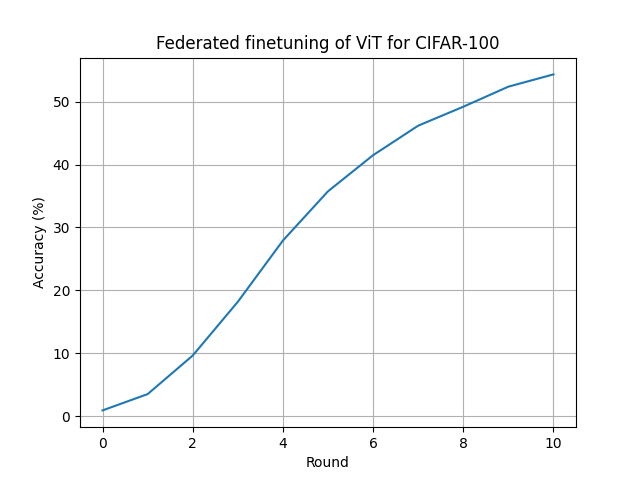
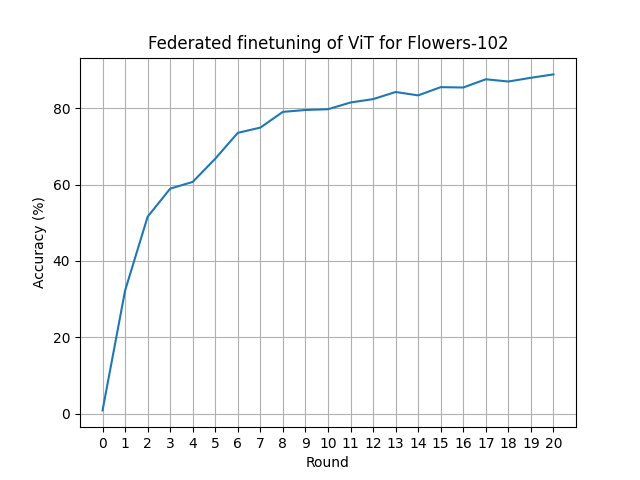
w/ oxford flowers-102

diff --git a/examples/vit-finetune/model.py b/examples/vit-finetune/model.py
@@ -11,11 +11,11 @@ def get_model():
     model = vit_b_16(weights=ViT_B_16_Weights.IMAGENET1K_V1)
 
     # We're going to federated the finetuning of this model
-    # using the CIFAR-100 dataset. One easy way to achieve this
-    # is by re-initializing the output block of the ViT so it
-    # outputs 100 clases instead of the default 1k
+    # using the Oxford Flowers-102 dataset. One easy way to achieve
+    # this is by re-initializing the output block of the ViT so it
+    # outputs 102 clases instead of the default 1k
     in_features = model.heads[-1].in_features
-    model.heads[-1] = torch.nn.Linear(in_features, 100)
+    model.heads[-1] = torch.nn.Linear(in_features, 102)
 
     # Disable gradients for everything
     model.requires_grad_(False)
@@ -45,7 +45,7 @@ def train(net, trainloader, optimizer, epochs, device):
     # A very standard training loop for image classification
     for _ in range(epochs):
         for batch in trainloader:
-            images, labels = batch["img"].to(device), batch["fine_label"].to(device)
+            images, labels = batch["image"].to(device), batch["label"].to(device)
             optimizer.zero_grad()
             loss = criterion(net(images), labels)
             avg_loss += loss.item() / labels.shape[0]
@@ -62,7 +62,7 @@ def test(net, testloader, device: str):
     net.eval()
     with torch.no_grad():
         for data in testloader:
-            images, labels = data["img"].to(device), data["fine_label"].to(device)
+            images, labels = data["image"].to(device), data["label"].to(device)
             outputs = net(images)
             loss += criterion(outputs, labels).item()
             _, predicted = torch.max(outputs.data, 1)

diff --git a/examples/vit-finetune/dataset.py b/examples/vit-finetune/dataset.py
@@ -11,18 +11,18 @@ from flwr_datasets import FederatedDataset
 
 
 def get_dataset_with_partitions(num_partitions: int):
-    """Get CIFAR-100 datasets and partition it.
+    """Get Oxford Flowers datasets and partition it.
 
     Return partitioned dataset as well as the whole test set.
     """
 
-    # Get CIFAR-100 and divide it into 20 IID partitions
-    c100_fds = FederatedDataset(
-        dataset="cifar100", partitioners={"train": num_partitions}
+    # Get Oxford Flowers-102 and divide it into 20 IID partitions
+    ox_flowers_fds = FederatedDataset(
+        dataset="nelorth/oxford-flowers", partitioners={"train": num_partitions}
     )
 
-    centralized_testset = c100_fds.load_full("test")
-    return c100_fds, centralized_testset
+    centralized_testset = ox_flowers_fds.load_full("test")
+    return ox_flowers_fds, centralized_testset
 
 
 def apply_eval_transforms(batch):
@@ -35,7 +35,7 @@ def apply_eval_transforms(batch):
             Normalize(mean=[0.485, 0.456, 0.406], std=[0.229, 0.224, 0.225]),
         ]
     )
-    batch["img"] = [transforms(img) for img in batch["img"]]
+    batch["image"] = [transforms(img) for img in batch["image"]]
     return batch
 
 
@@ -48,5 +48,5 @@ def apply_transforms(batch):
             Normalize(mean=[0.485, 0.456, 0.406], std=[0.229, 0.224, 0.225]),
         ]
     )
-    batch["img"] = [transforms(img) for img in batch["img"]]
+    batch["image"] = [transforms(img) for img in batch["image"]]
     return batch

diff --git a/examples/vit-finetune/main.py b/examples/vit-finetune/main.py
@@ -13,7 +13,7 @@ parser = argparse.ArgumentParser(
 parser.add_argument(
     "--num-rounds",
     type=int,
-    default=10,
+    default=20,
     help="Number of rounds.",
 )
 
@@ -24,10 +24,10 @@ def main():
 
     # To control the degree of parallelism
     # With default settings in this example,
-    # each client should take just ~2GB of VRAM.
+    # each client should take just ~1GB of VRAM.
     client_resources = {
         "num_cpus": 4,
-        "num_gpus": 0.25,
+        "num_gpus": 0.2,
     }
 
     # Launch simulation
@@ -43,13 +43,14 @@ def main():
 
     # Basic plotting
     global_accuracy_centralised = history.metrics_centralized["accuracy"]
-    round = [data[0] for data in global_accuracy_centralised]
+    round = [int(data[0]) for data in global_accuracy_centralised]
     acc = [100.0 * data[1] for data in global_accuracy_centralised]
     plt.plot(round, acc)
+    plt.xticks(round)
     plt.grid()
     plt.ylabel("Accuracy (%)")
     plt.xlabel("Round")
-    plt.title("Federated finetuning of ViT for CIFAR-100")
+    plt.title("Federated finetuning of ViT for Flowers-102")
     plt.savefig("central_evaluation.png")
 
 

diff --git a/examples/vit-finetune/client.py b/examples/vit-finetune/client.py
@@ -49,7 +49,7 @@ class FedViTClient(NumPyClient):
         )
 
         # Set optimizer
-        optimizer = torch.optim.SGD(self.model.parameters(), lr=lr, momentum=0.9)
+        optimizer = torch.optim.Adam(self.model.parameters(), lr=lr)
         # Train locally
         avg_train_loss = train(
             self.model, trainloader, optimizer, epochs=1, device=self.device
@@ -63,13 +63,13 @@ class FedViTClient(NumPyClient):
 
 
 # Downloads and partition dataset
-federated_c100, _ = get_dataset_with_partitions(num_partitions=20)
+federated_ox_flowers, _ = get_dataset_with_partitions(num_partitions=20)
 
 
 def client_fn(cid: str):
     """Return a FedViTClient that trains with the cid-th data partition."""
 
-    trainset_for_this_client = federated_c100.load_partition(int(cid), "train")
+    trainset_for_this_client = federated_ox_flowers.load_partition(int(cid), "train")
 
     trainset = trainset_for_this_client.with_transform(apply_transforms)
 

diff --git a/examples/vit-finetune/server.py b/examples/vit-finetune/server.py
@@ -10,8 +10,8 @@ from model import get_model, set_parameters, test
 def fit_config(server_round: int):
     """Return a configuration with static batch size and (local) epochs."""
     config = {
-        "lr": 0.001,  # Learning rate used by clients
-        "batch_size": 64,  # Batch size to use by clients during fit()
+        "lr": 0.01,  # Learning rate used by clients
+        "batch_size": 32,  # Batch size to use by clients during fit()
     }
     return config
 
@@ -22,7 +22,7 @@ def get_evaluate_fn(
     """Return an evaluation function for centralized evaluation."""
 
     def evaluate(server_round, parameters, config):
-        """Use the entire CIFAR-100 test set for evaluation."""
+        """Use the entire Oxford Flowers-102 test set for evaluation."""
 
         # Determine device
         device = torch.device("cuda:0" if torch.cuda.is_available() else "cpu")

diff --git a/examples/vit-finetune/README.md b/examples/vit-finetune/README.md
@@ -1,6 +1,6 @@
 # Federated finetuning of a ViT
 
-This example shows how to use Flower's Simulation Engine to federate the finetuning of a Vision Transformer ([ViT-Base-16](https://pytorch.org/vision/main/models/generated/torchvision.models.vit_b_16.html#torchvision.models.vit_b_16)) that has been pretrained on ImageNet. To keep things simple we'll be finetuning it to CIFAR-100, creating 20 partitions using [Flower Datasets](https://flower.ai/docs/datasets/). We'll be finetuning just the exit `head` of the ViT, this means that the training is not that costly and each client requires just ~1.5GB of VRAM (for a batch size of 64 images).
+This example shows how to use Flower's Simulation Engine to federate the finetuning of a Vision Transformer ([ViT-Base-16](https://pytorch.org/vision/main/models/generated/torchvision.models.vit_b_16.html#torchvision.models.vit_b_16)) that has been pretrained on ImageNet. To keep things simple we'll be finetuning it to [Oxford Flower-102](https://www.robots.ox.ac.uk/~vgg/data/flowers/102/index.html) datasset, creating 20 partitions using [Flower Datasets](https://flower.ai/docs/datasets/). We'll be finetuning just the exit `head` of the ViT, this means that the training is not that costly and each client requires just ~1GB of VRAM (for a batch size of 32 images).
 
 ## Running the example
 
@@ -44,7 +44,7 @@ pip install -r requirements.txt
 
 ### Run with `start_simulation()`
 
-Running the example is quite straightforward. You can control the number of rounds `--num-rounds` (which defaults to 10).
+Running the example is quite straightforward. You can control the number of rounds `--num-rounds` (which defaults to 20).
 
 ```bash
 python main.py
@@ -52,12 +52,11 @@ python main.py
 
 ![](_static/central_evaluation.png)
 
-Running the example as-is on an RTX 3090Ti should take ~1min/round running 4 clients in parallel (plus the _global model_ during centralized evaluation stages) in a single GPU. Note that more clients could fit in VRAM, but since the GPU utilization is high (99%-100%) we are probably better off not doing that (at least in this case).
+Running the example as-is on an RTX 3090Ti should take ~15s/round running 5 clients in parallel (plus the _global model_ during centralized evaluation stages) in a single GPU. Note that more clients could fit in VRAM, but since the GPU utilization is high (99%-100%) we are probably better off not doing that (at least in this case).
 
 You can adjust the `client_resources` passed to `start_simulation()` so more/less clients run at the same time in the GPU. Take a look at the [Documentation](https://flower.ai/docs/framework/how-to-run-simulations.html) for more details on how you can customise your simulation.
 
 ```bash
-
 +---------------------------------------------------------------------------------------+
 | NVIDIA-SMI 535.161.07             Driver Version: 535.161.07   CUDA Version: 12.2     |
 |-----------------------------------------+----------------------+----------------------+
@@ -66,7 +65,7 @@ You can adjust the `client_resources` passed to `start_simulation()` so more/les
 |                                         |                      |               MIG M. |
 |=========================================+======================+======================|
 |   0  NVIDIA GeForce RTX 3090 Ti     Off | 00000000:0B:00.0 Off |                  Off |
-| 59%   82C    P2             444W / 450W |   8127MiB / 24564MiB |    100%      Default |
+| 44%   74C    P2             441W / 450W |   7266MiB / 24564MiB |    100%      Default |
 |                                         |                      |                  N/A |
 +-----------------------------------------+----------------------+----------------------+
 
@@ -75,11 +74,12 @@ You can adjust the `client_resources` passed to `start_simulation()` so more/les
 |  GPU   GI   CI        PID   Type   Process name                            GPU Memory |
 |        ID   ID                                                             Usage      |
 |=======================================================================================|
-|    0   N/A  N/A     30741      C   python                                     1966MiB |
-|    0   N/A  N/A     31419      C   ray::DefaultActor.run                      1536MiB |
-|    0   N/A  N/A     31420      C   ray::DefaultActor.run                      1536MiB |
-|    0   N/A  N/A     31421      C   ray::DefaultActor.run                      1536MiB |
-|    0   N/A  N/A     31422      C   ray::DefaultActor.run                      1536MiB |
+|    0   N/A  N/A    173812      C   python                                     1966MiB |
+|    0   N/A  N/A    174510      C   ray::ClientAppActor.run                    1056MiB |
+|    0   N/A  N/A    174512      C   ray::ClientAppActor.run                    1056MiB |
+|    0   N/A  N/A    174513      C   ray::ClientAppActor.run                    1056MiB |
+|    0   N/A  N/A    174514      C   ray::ClientAppActor.run                    1056MiB |
+|    0   N/A  N/A    174516      C   ray::ClientAppActor.run                    1056MiB |
 +---------------------------------------------------------------------------------------+
 ```
 
